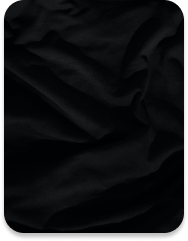
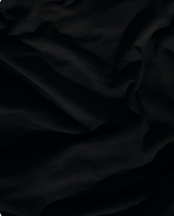
Instructions

Changed region(s): [[0.0, 0.0, 1.0, 1.0]]

diff --git a/lib/auth/view/Instructions.dart b/lib/auth/view/Instructions.dart
@@ -1,0 +1,136 @@
+import 'package:flutter/cupertino.dart';
+import 'package:flutter/material.dart';
+
+class Instructions extends StatelessWidget {
+  const Instructions({Key? key}) : super(key: key);
+
+  @override
+  Widget build(BuildContext context) {
+     bool isTeacher = false;
+    String teacherChat1 =
+        "- Es2al chat allows you to see students’ questions and answers and check all answers to choose the most correct ones fromall of them or answer the question by yourself.";
+    String teacherChat2=
+        "- Bonus point will be added to the students who help their classmates with the correct answer.";
+    String teacherBones =
+        "Bonus degrees will be added when the student participate in the answers of questions that asked in the course chat if your answer was correct and approved by your teacher...\n Good luck";
+    String studentChat1 =
+        "- EduScience chat allwos you to share your questions and It will be answered by one of your classmates or your teacher.";
+    String studentChat2 =
+        "- EduScience chat also allwos you to share your answers and gets bonus points from your teacher in case your answer is right";
+    String studentChat3=
+    "- approved answers will get saved in course’s admitted answers";
+    String studentBouns =
+        "Bonus degrees will be added when you participate in the answers of questions that asked in the course chat if your answer was correct and approved by your teacher... \nGood luck  ";
+    return Scaffold(
+      body: Container(
+      margin: EdgeInsets.only(top: 70),
+        child: Column(
+          crossAxisAlignment: CrossAxisAlignment.start,
+          children: [
+            Padding(
+                padding:EdgeInsets.only(left: 15),
+                child: Text(
+                  "Instructions",
+                  style: TextStyle(fontWeight: FontWeight.bold, fontSize: 30),
+                ),
+            ),
+            const SizedBox(
+              height: 15,
+            ),
+            Container(
+              margin: EdgeInsets.symmetric(horizontal: 15),
+              padding: EdgeInsets.all(25),
+              decoration:  BoxDecoration(
+                image: const DecorationImage(
+                  image: AssetImage("assets/images/instrBackg.round.png"),
+                  fit: BoxFit.cover,
+                ),
+                borderRadius: BorderRadius.circular(15),
+              ),
+              child: Column(
+                crossAxisAlignment: CrossAxisAlignment.start,
+                children:[
+                  const Text(
+                    "About chat",
+                    style: TextStyle(
+                      color: Colors.white,
+                      fontWeight: FontWeight.bold,
+                      fontSize: 20,
+                    ),
+                  ),
+                  const SizedBox(height: 10,),
+                  Text(
+                   isTeacher? teacherChat1: studentChat1,
+                      style:const TextStyle(
+                        color: Colors.white,
+                        fontSize: 11,
+                        fontWeight: FontWeight.bold,
+                        height: 2.5,
+                      ),
+                  ),
+                  Text(
+                     isTeacher? teacherChat2:studentChat2,
+                      style: TextStyle(
+                        color: Colors.white,
+                        fontWeight: FontWeight.bold,
+                        fontSize: 11,
+                        height: 2.5,
+                      ),
+                  ),
+                  isTeacher? SizedBox():Text(
+                 studentChat3,
+                    style: TextStyle(
+                      color: Colors.white,
+                      fontWeight: FontWeight.bold,
+                      fontSize: 11,
+                      height: 2.5,
+                    ),
+                  ),
+                  SizedBox(height: 20,),
+                ],
+              ),
+            ),
+            SizedBox(height: 20,),
+            Divider(color: Colors.black, thickness: 1.5),
+            SizedBox(height: 20,),
+            Container(
+              margin: EdgeInsets.symmetric(horizontal: 15),
+              padding: EdgeInsets.all(25),
+              decoration:  BoxDecoration(
+                image: const DecorationImage(
+                  image: AssetImage("assets/images/blackground.png"),
+                  fit: BoxFit.cover,
+                ),
+                borderRadius: BorderRadius.circular(15),
+              ),
+              child: Column(
+                crossAxisAlignment: CrossAxisAlignment.start,
+                children:[
+                  const Text(
+                    "About bonus",
+                    style: TextStyle(
+                      color: Colors.white,
+                      fontWeight: FontWeight.bold,
+                      fontSize: 20,
+                    ),
+                  ),
+                  const SizedBox(height: 10,),
+                  Text(
+                    isTeacher? teacherBones: studentBouns,
+                    style:const TextStyle(
+                      color: Colors.white,
+                      fontSize: 11,
+                      fontWeight: FontWeight.bold,
+                      height: 2.5,
+                    ),
+                  ),
+                  SizedBox(height: 20,),
+                ],
+              ),
+            ),
+          ],
+        ),
+      ),
+    );
+  }
+}

diff --git a/lib/main.dart b/lib/main.dart
@@ -1,6 +1,7 @@
 import 'dart:ffi';
 
 import 'package:cloud_firestore/cloud_firestore.dart';
+import 'package:es2al/auth/view/Instructions.dart';
 import 'package:es2al/chat/chat.dart';
 import 'package:firebase_auth/firebase_auth.dart';
 import 'package:firebase_core/firebase_core.dart';
@@ -52,7 +53,7 @@ class _MyApp extends State<MyApp> {
     return MaterialApp(
       debugShowCheckedModeBanner: false,
       //home: Intro(),
-      home: ForgotPassword(),
+      home: Instructions(),
     );
   }
 
